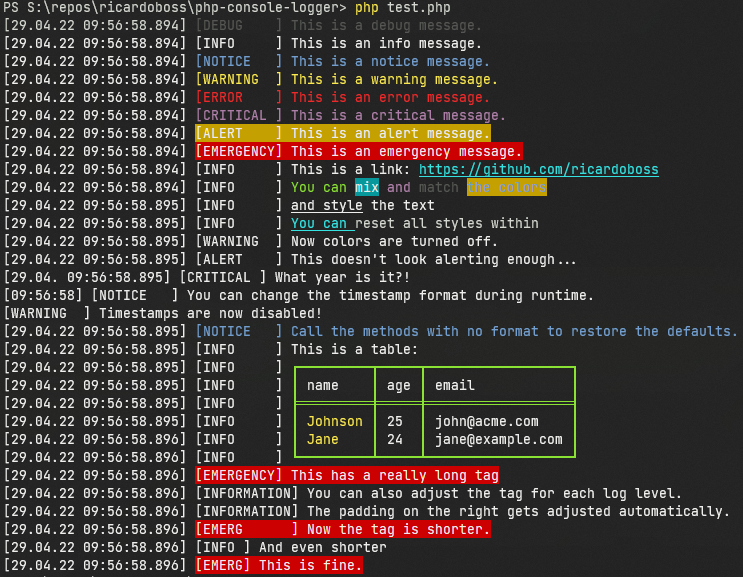
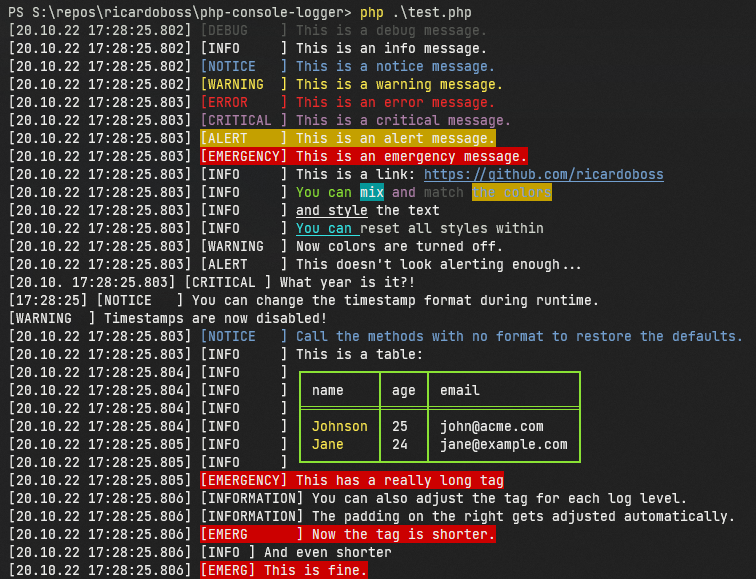
Updated color of link to be blue

Changed region(s): [[0.0, 0.0, 0.9906, 1.0]]

diff --git a/src/Console.php b/src/Console.php
@@ -173,7 +173,7 @@ class Console
 
 	public static function link(string $link): string
 	{
-		return self::cyan(self::underscore($link));
+		return self::blue(self::underscore($link));
 	}
 
 	public static function debug(string $message, ...$args): void
